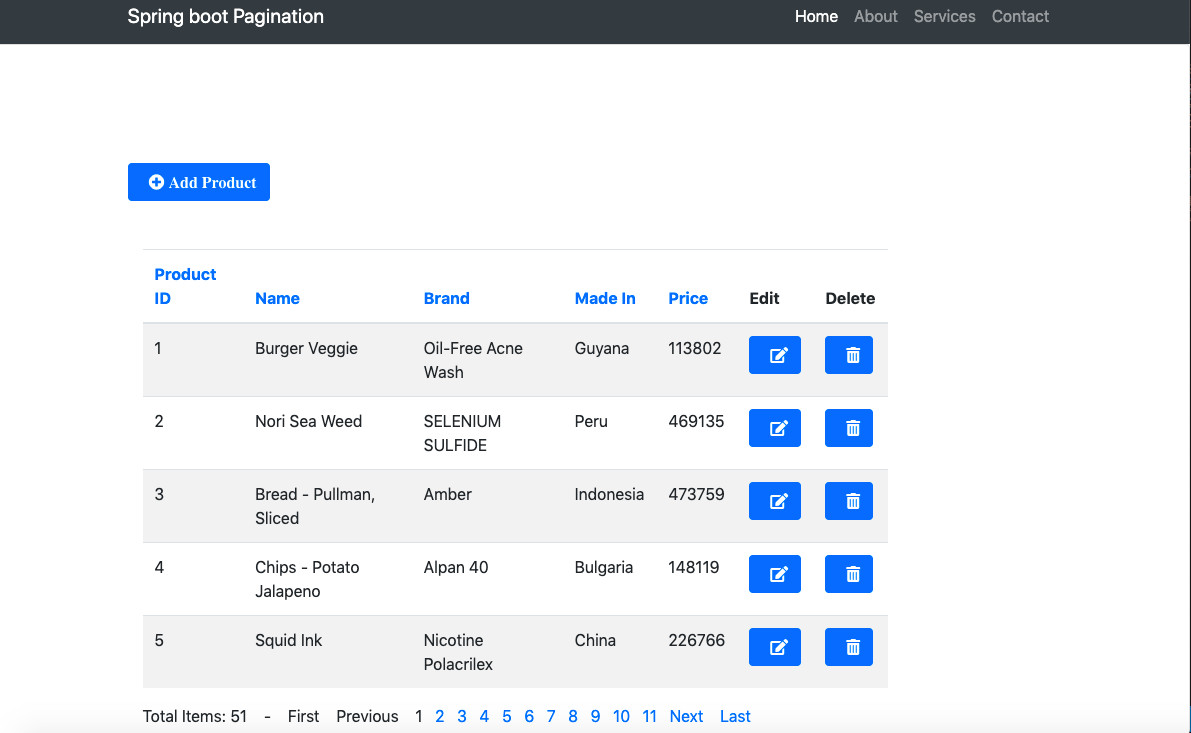
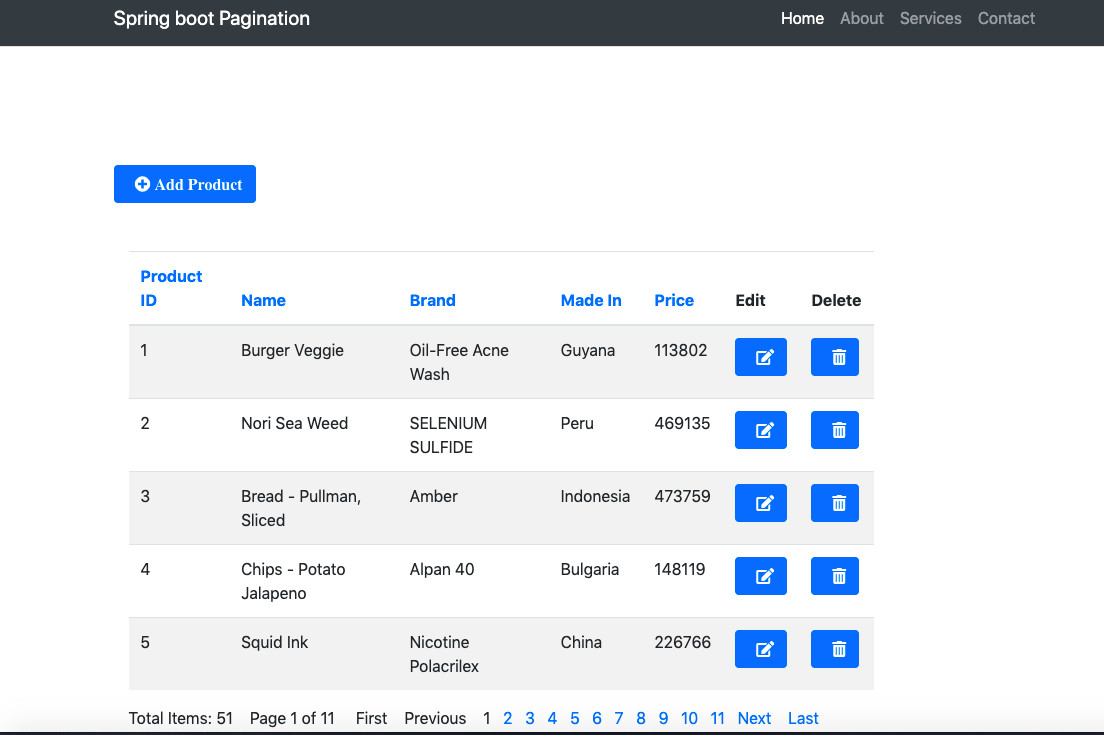
Pagination

diff --git a/product_managerment/src/main/resources/templates/product-list.html b/product_managerment/src/main/resources/templates/product-list.html
@@ -67,7 +67,7 @@
                                 <a th:href="@{'/page/' + ${currentPage} + '?sortField=brand&sortDir=' + ${reverseSortDir}}">Brand</a>
                             </th>
                             <th>
-                                <a th:href="@{'/page/' + ${currentPage} + '?sortField=madein&sortDir=' + ${reverseSortDir}}">Made In</a>
+                                <a th:href="@{'/page/' + ${currentPage} + '?sortField=madeIn&sortDir=' + ${reverseSortDir}}">Made In</a>
                             </th>
                             <th>
                                 <a th:href="@{'/page/' + ${currentPage} + '?sortField=price&sortDir=' + ${reverseSortDir}}">Price</a>
@@ -98,7 +98,7 @@
                 </div>
                 <div th:if="${totalPages > 1}">
                     Total Items: [[${totalItems}]]
-                    &nbsp;&nbsp;&nbsp;-&nbsp;&nbsp;&nbsp;
+                    &nbsp;&nbsp;&nbsp;Page [[${currentPage}]] of [[${totalPages}]] &nbsp;&nbsp;&nbsp;
                     
                     <a th:if="${currentPage > 1}" th:href="@{'/page/1' + '?sortField=' + ${sortField} + '&sortDir=' + ${sortDir}}">First</a>
                     <span th:unless="${currentPage > 1}">First</span>
